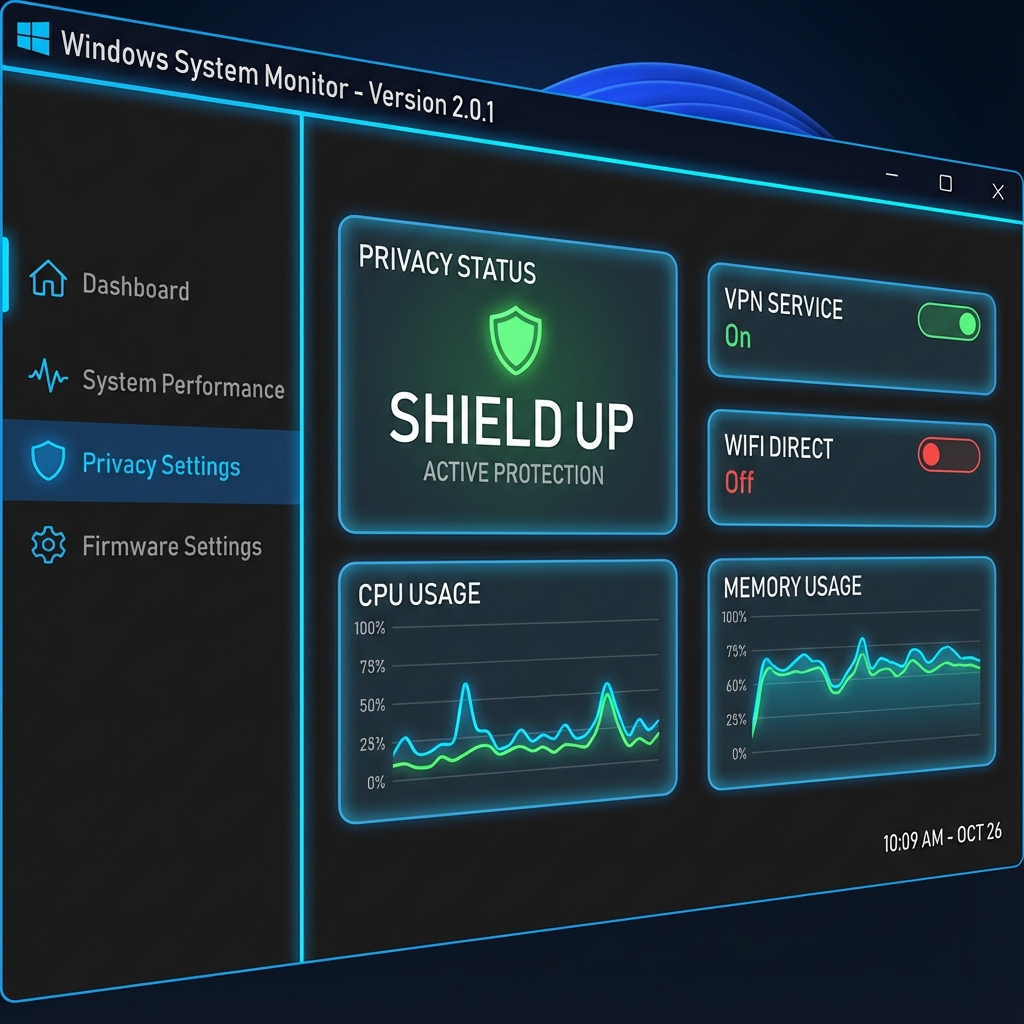
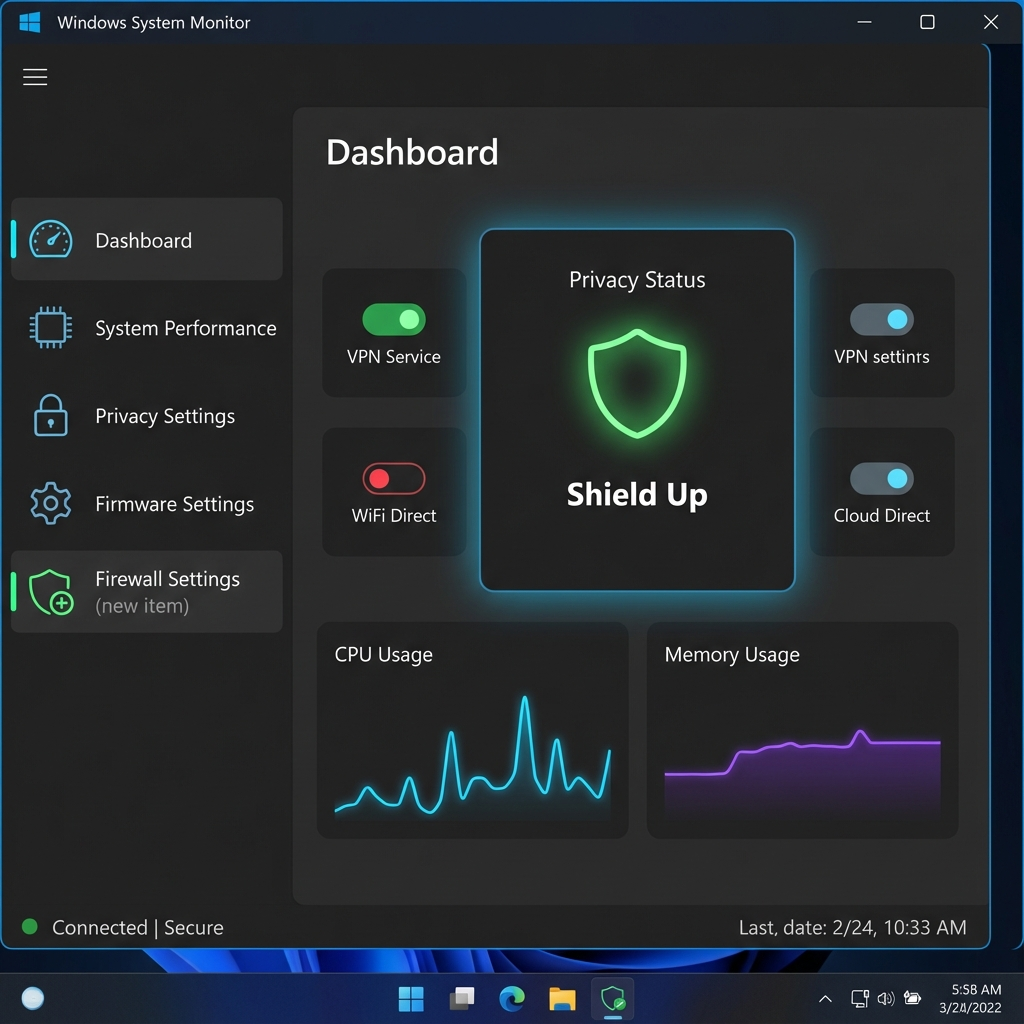
feat: Add Firewall Settings, update screenshot and README

diff --git a/DeviceMonitorCS/Views/FirewallSettingsView.xaml b/DeviceMonitorCS/Views/FirewallSettingsView.xaml
@@ -1,0 +1,116 @@
+<UserControl x:Class="DeviceMonitorCS.Views.FirewallSettingsView"
+             xmlns="http://schemas.microsoft.com/winfx/2006/xaml/presentation"
+             xmlns:x="http://schemas.microsoft.com/winfx/2006/xaml"
+             xmlns:mc="http://schemas.openxmlformats.org/markup-compatibility/2006" 
+             xmlns:d="http://schemas.microsoft.com/expression/blend/2008" 
+             mc:Ignorable="d" 
+             d:DesignHeight="700" d:DesignWidth="900"
+             Background="#1E1E1E">
+    <Grid Margin="20">
+        <Grid.RowDefinitions>
+            <RowDefinition Height="Auto"/>
+            <RowDefinition Height="*"/>
+        </Grid.RowDefinitions>
+
+        <!-- Header -->
+        <Grid Grid.Row="0" Margin="0,0,0,20">
+            <Grid.ColumnDefinitions>
+                <ColumnDefinition Width="*"/>
+                <ColumnDefinition Width="Auto"/>
+            </Grid.ColumnDefinitions>
+            
+            <StackPanel Orientation="Horizontal" Grid.Column="0">
+                <TextBlock Text="Firewall Settings" FontSize="24" FontWeight="Bold" Foreground="Cyan">
+                    <TextBlock.Effect>
+                        <DropShadowEffect Color="Cyan" BlurRadius="10" ShadowDepth="0" Opacity="0.5"/>
+                    </TextBlock.Effect>
+                </TextBlock>
+                <Button x:Name="RefreshBtn" Content="Refresh" Margin="20,0,0,0" Padding="10,5" Background="#2D2D30" Foreground="White" BorderBrush="#3E3E42" Click="RefreshBtn_Click"/>
+            </StackPanel>
+
+            <Button x:Name="ResetBtn" Grid.Column="1" Content="Reset to Default" Padding="15,5" Background="#FF4444" Foreground="White" BorderBrush="Red" Click="ResetBtn_Click" FontWeight="Bold"/>
+        </Grid>
+
+        <!-- Rules Tabs -->
+        <TabControl Grid.Row="1" Background="Transparent" BorderThickness="0">
+            <TabControl.Resources>
+                <Style TargetType="TabItem">
+                    <Setter Property="Background" Value="#252526"/>
+                    <Setter Property="Foreground" Value="White"/>
+                    <Setter Property="FontSize" Value="14"/>
+                    <Setter Property="Padding" Value="15,10"/>
+                    <Setter Property="BorderThickness" Value="0"/>
+                    <Setter Property="Template">
+                        <Setter.Value>
+                            <ControlTemplate TargetType="TabItem">
+                                <Border x:Name="Border" Background="{TemplateBinding Background}" BorderBrush="{TemplateBinding BorderBrush}" BorderThickness="{TemplateBinding BorderThickness}" Padding="{TemplateBinding Padding}">
+                                    <ContentPresenter ContentSource="Header" HorizontalAlignment="Center" VerticalAlignment="Center"/>
+                                </Border>
+                                <ControlTemplate.Triggers>
+                                    <Trigger Property="IsSelected" Value="True">
+                                        <Setter TargetName="Border" Property="Background" Value="#3E3E42"/>
+                                        <Setter Property="Foreground" Value="Cyan"/>
+                                    </Trigger>
+                                </ControlTemplate.Triggers>
+                            </ControlTemplate>
+                        </Setter.Value>
+                    </Setter>
+                </Style>
+            </TabControl.Resources>
+
+            <TabItem Header="Inbound Rules">
+                <DataGrid x:Name="InboundGrid" AutoGenerateColumns="False" CanUserAddRows="False" IsReadOnly="True" 
+                          Background="#252526" Foreground="White" RowBackground="#252526" AlternatingRowBackground="#2D2D30"
+                          GridLinesVisibility="Horizontal" HeadersVisibility="Column" BorderThickness="0" Margin="0,10,0,0">
+                    <DataGrid.Columns>
+                        <DataGridTextColumn Header="Name" Binding="{Binding Name}" Width="2*"/>
+                        <DataGridTextColumn Header="Group" Binding="{Binding DisplayGroup}" Width="1.5*"/>
+                        <DataGridTextColumn Header="Profile" Binding="{Binding Profile}" Width="1*"/>
+                        <DataGridTextColumn Header="Action" Binding="{Binding Action}" Width="0.8*"/>
+                        <DataGridTextColumn Header="Enabled" Binding="{Binding Enabled}" Width="0.8*"/>
+                        <DataGridTemplateColumn Header="Actions" Width="100">
+                            <DataGridTemplateColumn.CellTemplate>
+                                <DataTemplate>
+                                    <Button Content="Toggle" Click="ToggleRule_Click" CommandParameter="{Binding}" 
+                                            Background="#007ACC" Foreground="White" BorderThickness="0" Padding="5,2" Margin="2"/>
+                                </DataTemplate>
+                            </DataGridTemplateColumn.CellTemplate>
+                        </DataGridTemplateColumn>
+                    </DataGrid.Columns>
+                    <DataGrid.ContextMenu>
+                        <ContextMenu>
+                            <MenuItem Header="Toggle Rule" Click="ToggleRuleCtx_Click"/>
+                        </ContextMenu>
+                    </DataGrid.ContextMenu>
+                </DataGrid>
+            </TabItem>
+
+            <TabItem Header="Outbound Rules">
+                <DataGrid x:Name="OutboundGrid" AutoGenerateColumns="False" CanUserAddRows="False" IsReadOnly="True" 
+                          Background="#252526" Foreground="White" RowBackground="#252526" AlternatingRowBackground="#2D2D30"
+                          GridLinesVisibility="Horizontal" HeadersVisibility="Column" BorderThickness="0" Margin="0,10,0,0">
+                    <DataGrid.Columns>
+                        <DataGridTextColumn Header="Name" Binding="{Binding Name}" Width="2*"/>
+                        <DataGridTextColumn Header="Group" Binding="{Binding DisplayGroup}" Width="1.5*"/>
+                        <DataGridTextColumn Header="Profile" Binding="{Binding Profile}" Width="1*"/>
+                        <DataGridTextColumn Header="Action" Binding="{Binding Action}" Width="0.8*"/>
+                        <DataGridTextColumn Header="Enabled" Binding="{Binding Enabled}" Width="0.8*"/>
+                        <DataGridTemplateColumn Header="Actions" Width="100">
+                            <DataGridTemplateColumn.CellTemplate>
+                                <DataTemplate>
+                                    <Button Content="Toggle" Click="ToggleRule_Click" CommandParameter="{Binding}" 
+                                            Background="#007ACC" Foreground="White" BorderThickness="0" Padding="5,2" Margin="2"/>
+                                </DataTemplate>
+                            </DataGridTemplateColumn.CellTemplate>
+                        </DataGridTemplateColumn>
+                    </DataGrid.Columns>
+                    <DataGrid.ContextMenu>
+                        <ContextMenu>
+                            <MenuItem Header="Toggle Rule" Click="ToggleRuleCtx_Click"/>
+                        </ContextMenu>
+                    </DataGrid.ContextMenu>
+                </DataGrid>
+            </TabItem>
+        </TabControl>
+    </Grid>
+</UserControl>

diff --git a/DeviceMonitorCS/MainWindow.xaml b/DeviceMonitorCS/MainWindow.xaml
@@ -71,6 +71,7 @@
                 <Button x:Name="PerformanceBtn" Content="System Performance" Style="{StaticResource NavButton}"/>
                 <Button x:Name="PrivacyBtn" Content="Privacy Settings" Style="{StaticResource NavButton}"/>
                 <Button x:Name="FirmwareSettingsBtn" Content="Firmware Settings" Style="{StaticResource NavButton}"/>
+                <Button x:Name="FirewallSettingsBtn" Content="Firewall Settings" Style="{StaticResource NavButton}"/>
                 
 
                 <TextBlock Text="TOOLS" Foreground="#808080" FontSize="12" Margin="5,20,0,5" FontWeight="SemiBold"/>
@@ -106,6 +107,7 @@
             
             <!-- Firmware Settings View -->
             <views:FirmwareSettingsView x:Name="FirmwareSettingsView" Visibility="Collapsed"/>
+            <views:FirewallSettingsView x:Name="FirewallSettingsView" Visibility="Collapsed"/>
 
             <!-- Tools Views -->
             <views:HostedNetworkView x:Name="HostedNetworkView" Visibility="Collapsed"/>

diff --git a/DeviceMonitorCS/Views/FirewallSettingsView.xaml.cs b/DeviceMonitorCS/Views/FirewallSettingsView.xaml.cs
@@ -1,0 +1,196 @@
+using System;
+using System.Collections.ObjectModel;
+using System.Diagnostics;
+using System.Linq;
+using System.Text.Json;
+using System.Threading.Tasks;
+using System.Windows;
+using System.Windows.Controls;
+using System.Windows.Input;
+
+namespace DeviceMonitorCS.Views
+{
+    public partial class FirewallSettingsView : UserControl
+    {
+        public ObservableCollection<FirewallRule> InboundRules { get; set; } = new ObservableCollection<FirewallRule>();
+        public ObservableCollection<FirewallRule> OutboundRules { get; set; } = new ObservableCollection<FirewallRule>();
+
+        public FirewallSettingsView()
+        {
+            InitializeComponent();
+            InboundGrid.ItemsSource = InboundRules;
+            OutboundGrid.ItemsSource = OutboundRules;
+            Loaded += async (s, e) => await LoadRules();
+        }
+
+        private async void RefreshBtn_Click(object sender, RoutedEventArgs e)
+        {
+            await LoadRules();
+        }
+
+        private async Task LoadRules()
+        {
+            try
+            {
+                Mouse.OverrideCursor = System.Windows.Input.Cursors.Wait;
+                InboundRules.Clear();
+                OutboundRules.Clear();
+
+                // Fetch rules via PowerShell JSON output for reliable parsing
+                string script = "Get-NetFirewallRule | Select-Object Name, DisplayName, DisplayGroup, Direction, Enabled, Action, @{Name='Profile';Expression={$_.Profile}}, Program | ConvertTo-Json -Depth 1";
+                string json = await RunPowershellAsync(script);
+
+                if (string.IsNullOrWhiteSpace(json)) return;
+
+                // Handle single object vs array
+                if (!json.TrimStart().StartsWith("[")) json = $"[{json}]";
+
+                var rules = JsonSerializer.Deserialize<FirewallRule[]>(json);
+                if (rules == null) return;
+
+                foreach (var rule in rules)
+                {
+                    if (rule.Direction == "Inbound") InboundRules.Add(rule);
+                    else OutboundRules.Add(rule);
+                }
+            }
+            catch (Exception ex)
+            {
+                MessageBox.Show($"Error loading rules: {ex.Message}");
+            }
+            finally
+            {
+                Mouse.OverrideCursor = null;
+            }
+        }
+
+        private async void ToggleRule_Click(object sender, RoutedEventArgs e)
+        {
+            if (sender is Button btn && btn.CommandParameter is FirewallRule rule)
+            {
+                await ToggleRule(rule);
+            }
+        }
+
+        private async void ToggleRuleCtx_Click(object sender, RoutedEventArgs e)
+        {
+            var grid = InboundGrid.IsMouseOver ? InboundGrid : OutboundGrid;
+            if (grid.SelectedItem is FirewallRule rule)
+            {
+                await ToggleRule(rule);
+            }
+        }
+
+        private async Task ToggleRule(FirewallRule rule)
+        {
+            try
+            {
+                Mouse.OverrideCursor = System.Windows.Input.Cursors.Wait;
+                bool newState = !rule.IsEnabled;
+                string stateStr = newState ? "True" : "False";
+
+                await RunPowershellAsync($"Set-NetFirewallRule -Name '{rule.Name}' -Enabled {stateStr}");
+                
+                // Update Model
+                rule.Enabled = newState.ToString(); // Helper handles boolean parsing
+                
+                // Visual feedback (refresh helps confirm, but verify specific item update first)
+                // For simplicity, just refreshing local binding, but true verification is reloading.
+                // Let's reload to be sure.
+                await LoadRules();
+            }
+            catch (Exception ex)
+            {
+                MessageBox.Show($"Error updating rule: {ex.Message}");
+            }
+            finally
+            {
+                Mouse.OverrideCursor = null;
+            }
+        }
+
+        private async void ResetBtn_Click(object sender, RoutedEventArgs e)
+        {
+            var res = MessageBox.Show("Are you sure you want to reset Windows Firewall configuration to defaults? This may affect network connectivity.", "Confirm Reset", MessageBoxButton.YesNo, MessageBoxImage.Warning);
+            if (res == MessageBoxResult.Yes)
+            {
+                try
+                {
+                    Mouse.OverrideCursor = System.Windows.Input.Cursors.Wait;
+                    var psi = new ProcessStartInfo
+                    {
+                        FileName = "netsh",
+                        Arguments = "advfirewall reset",
+                        UseShellExecute = false,
+                        CreateNoWindow = true,
+                        RedirectStandardOutput = true
+                    };
+                    var p = Process.Start(psi);
+                    await p.WaitForExitAsync();
+                    
+                    MessageBox.Show("Firewall reset command executed. Reloading rules...", "Success");
+                    await LoadRules();
+                }
+                catch (Exception ex)
+                {
+                     MessageBox.Show($"Error resetting firewall: {ex.Message}");
+                }
+                finally
+                {
+                    Mouse.OverrideCursor = null;
+                }
+            }
+        }
+
+        private Task<string> RunPowershellAsync(string script)
+        {
+            return Task.Run(() =>
+            {
+                try
+                {
+                    var psi = new ProcessStartInfo
+                    {
+                        FileName = "powershell.exe",
+                        Arguments = $"-Command \"{script}\"",
+                        UseShellExecute = false,
+                        CreateNoWindow = true,
+                        RedirectStandardOutput = true,
+                        RedirectStandardError = true
+                    };
+                    using var p = Process.Start(psi);
+                    if (p == null) return "";
+                    
+                    var output = p.StandardOutput.ReadToEnd();
+                    p.WaitForExit();
+                    return output;
+                }
+                catch { return ""; }
+            });
+        }
+    }
+
+    public class FirewallRule
+    {
+        public string Name { get; set; }
+        public string DisplayName { get; set; }
+        public string DisplayGroup { get; set; }
+        public string Direction { get; set; }
+        public string Action { get; set; }
+        public string Profile { get; set; }
+        public string Program { get; set; }
+        
+        // Handling PowerShell boolean/string weirdness in JSON
+        public object Enabled { get; set; } 
+
+        public bool IsEnabled 
+        { 
+            get 
+            {
+                if (Enabled is JsonElement je) return je.ValueKind == JsonValueKind.True || (je.ValueKind == JsonValueKind.Number && je.GetInt32() != 0);
+                if (Enabled is bool b) return b;
+                if (Enabled is string s) return bool.TryParse(s, out var res) && res;
+                return false;
+            }
+        }
+    }
+}

diff --git a/DeviceMonitorCS/MainWindow.xaml.cs b/DeviceMonitorCS/MainWindow.xaml.cs
@@ -80,6 +80,7 @@ namespace DeviceMonitorCS
             PerformanceBtn.Click += (s, e) => NavigateTo(PerformanceView);
             PrivacyBtn.Click += (s, e) => NavigateTo(PrivacyView);
             FirmwareSettingsBtn.Click += (s, e) => NavigateTo(FirmwareSettingsView);
+            FirewallSettingsBtn.Click += (s, e) => NavigateTo(FirewallSettingsView);
             
             HostedNetworkBtn.Click += (s, e) => NavigateTo(HostedNetworkView);
             WanMiniportBtn.Click += (s, e) => NavigateTo(WanMiniportView);
@@ -617,6 +618,7 @@ namespace DeviceMonitorCS
             ConnectionsView.Visibility = Visibility.Collapsed;
             SettingsView.Visibility = Visibility.Collapsed;
             FirmwareSettingsView.Visibility = Visibility.Collapsed;
+            FirewallSettingsView.Visibility = Visibility.Collapsed;
 
             // Show target
             if (targetView != null)

diff --git a/README.md b/README.md
@@ -41,6 +41,11 @@ A comprehensive system utility for monitoring, managing, and securing your Windo
     - **UEFI Variables**: View secure boot and other UEFI firmware variables.
     - **BIOS Info**: Detailed BIOS version and release data.
 
+### 🛡 Firewall Settings
+- **Rule Management**: View all Inbound and Outbound firewall rules.
+- **Toggle Rules**: Enable or disable specific rules instantly.
+- **Reset to Defaults**: One-click reset for Windows Firewall configuration.
+
 ### 🛠 Settings & Installation
 - **Run at Startup**: Easily install the application as a highly-privileged Scheduled Task to ensure it runs automatically at logon without UAC prompts.
 - **Security Enforcer**: Configurable background scanning interval for enforcing security policies.
